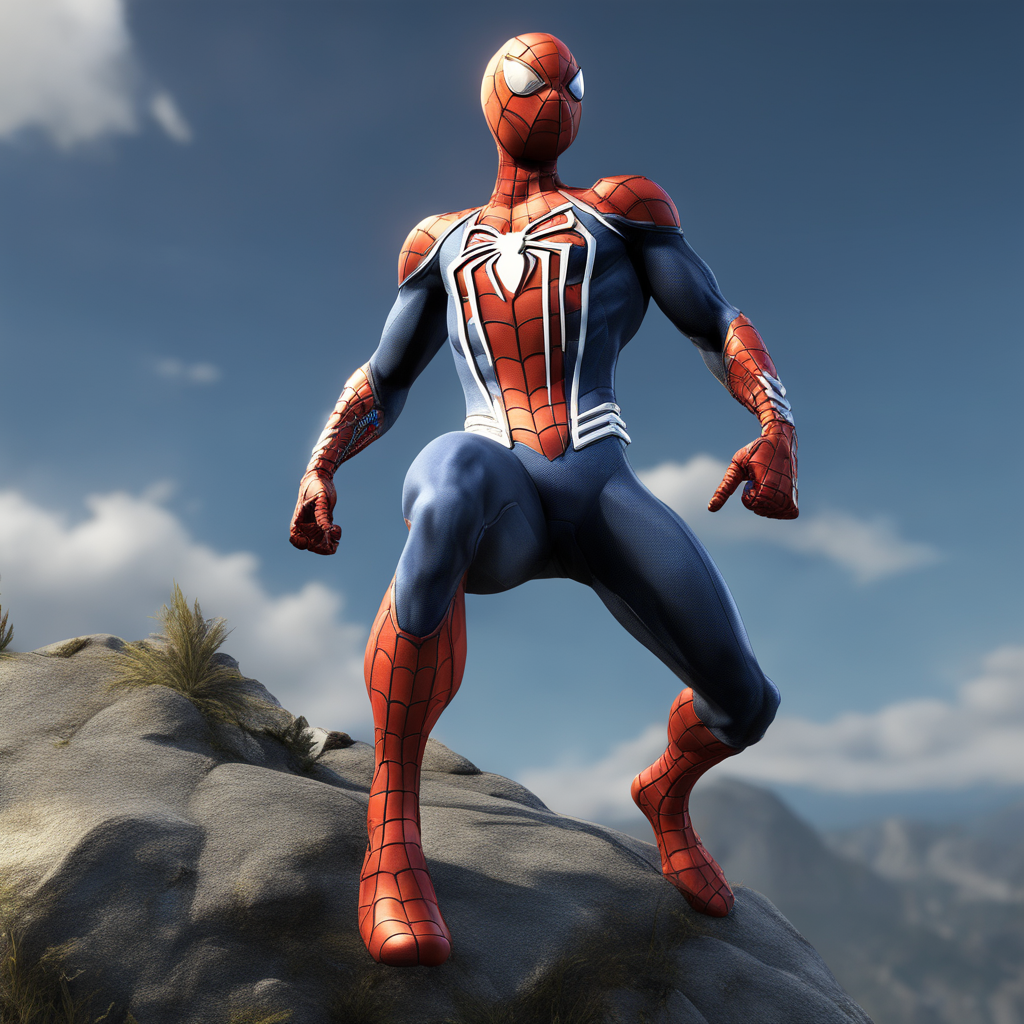
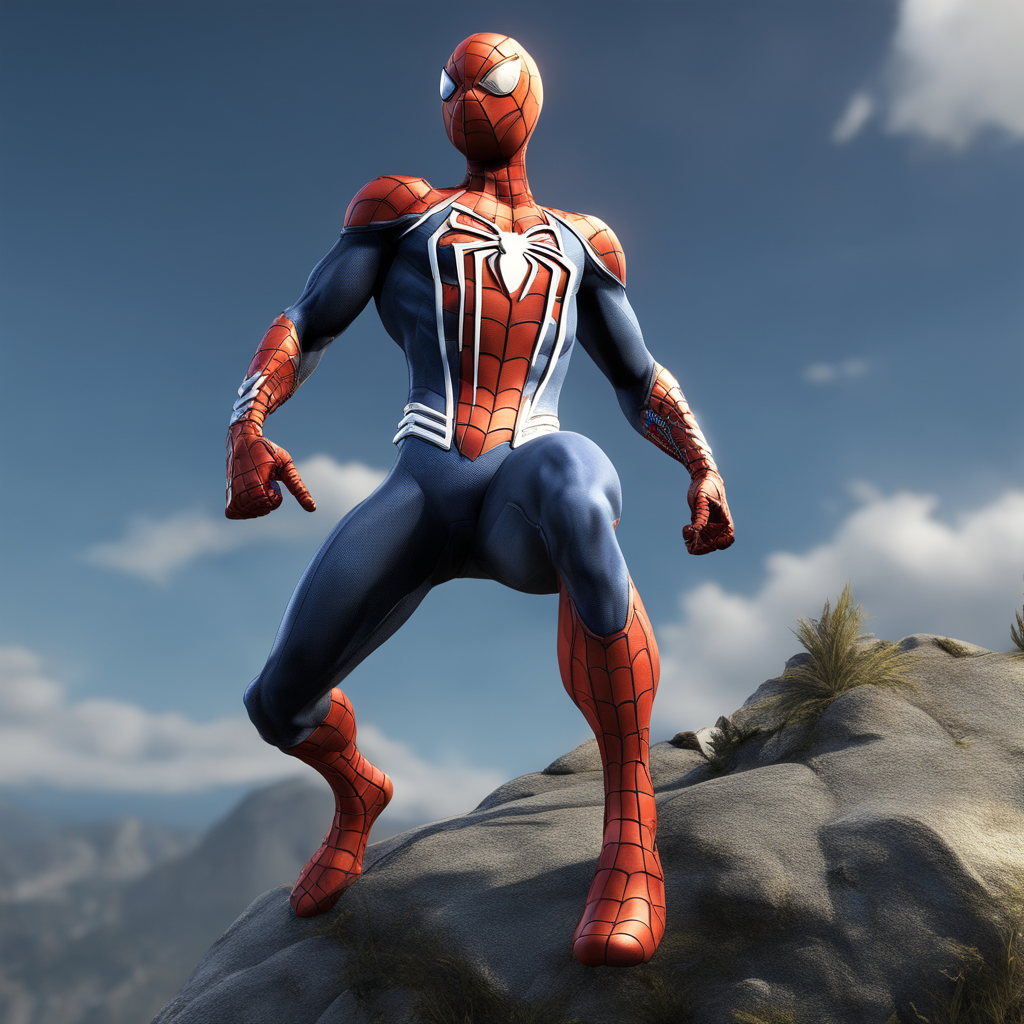
need a better joker2 picture

diff --git a/src/Content.js b/src/Content.js
@@ -3,6 +3,16 @@ import axios from 'axios';
 import {useState, useEffect} from 'react';
 import Batman1 from './Images/batman1.png';
 import Batman2 from './Images/batman2NoBG.png';
+import Spiderman1 from './Images/spiderman1.png';
+import Spiderman2 from './Images/spiderman2NoBG.png';
+import Constantine1 from './Images/john1.png';
+import Constantine2 from './Images/john2NoBG.png';
+import Joker1 from './Images/joker1.png';
+import Joker2 from './Images/joker2NoBG.png';
+import Punisher1 from './Images/punisher 1.png';
+import Punisher2 from './Images/punisher 2NoBG.png';
+import Venom1 from './Images/venom1.png';
+import Venom2 from './Images/venom2NoBG.png';
 
 
 export default function Content() {
@@ -89,7 +99,6 @@ useEffect(()=>{
   
       .then(res => {
           setComics(res.data.data.results)
-          console.log(comics)
       })   
 // Putting the API Response in an array      
 },[]);
@@ -118,8 +127,28 @@ function News(){
   return(
     <div className='newsContainer'>
       <div className='heroContainer'>
+        <img src={Constantine1} className='heroImageA'/>
+        <img src={Constantine2} className='heroImageB'/>
+      </div>
+      <div className='heroContainer'>
+        <img src={Spiderman1} className='heroImageA' style={{transform: 'translateX(5%)'}}/>
+        <img src={Spiderman2} className='heroImageB'/>
+      </div>
+      <div className='heroContainer'>
         <img src={Batman1} className='heroImageA'/>
-        <img src={Batman2} className='heroImageB'/>
+        <img src={Batman2} className='heroImageBatman'/>
+      </div>
+      <div className='heroContainer'>
+        <img src={Punisher1} className='heroImageA' style={{transform: 'translateX(5%)'}}/>
+        <img src={Punisher2} className='heroImageB'/>
+      </div>
+      <div className='heroContainer'>
+        <img src={Venom1} className='heroImageA'/>
+        <img src={Venom2} className='heroImageB'/>
+      </div>
+      <div className='heroContainer'>
+        <img src={Joker1} className='heroImageA'/>
+        <img src={Joker2} className='heroImageB'/>
       </div>
     </div>
   )

diff --git a/src/App.css b/src/App.css
@@ -306,8 +306,9 @@ header a:hover{
 .newsContainer{
   background-color: #3371e6;
   width: 100%;
-  height: 100vh; /*change this to auto later*/
+  height: auto; 
   display: flex;
+  flex-direction: column;
   align-items: center;
   justify-content: center;
 }
@@ -321,6 +322,7 @@ header a:hover{
   align-items: center;
   justify-content: center;
   overflow: hidden;
+  margin-right: 232px;
 }
 
 .heroContainer:hover .heroImageB{
@@ -351,3 +353,22 @@ header a:hover{
 }
 
 /*------------------- NEWS -------------------*/
+
+/*------------------- BATMAN -------------------*/
+
+.heroImageBatman{
+  width: 100%;
+  max-width: 575px;
+  height: auto;
+  position: absolute;
+  opacity: 0;
+  transition: all 250ms ease-in-out;
+  /* transform: translateY(-10%); */
+}
+
+.heroContainer:hover .heroImageBatman{
+  transform: translateY(-8%) scale(1.3);
+  opacity: 1;
+}
+
+/*------------------- BATMAN -------------------*/
